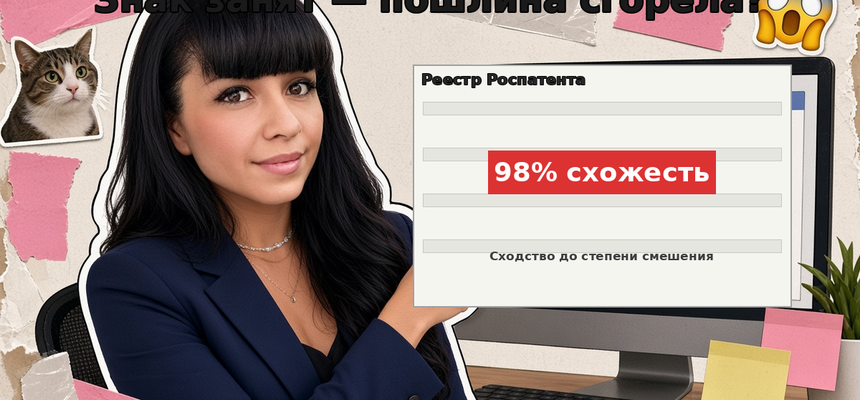
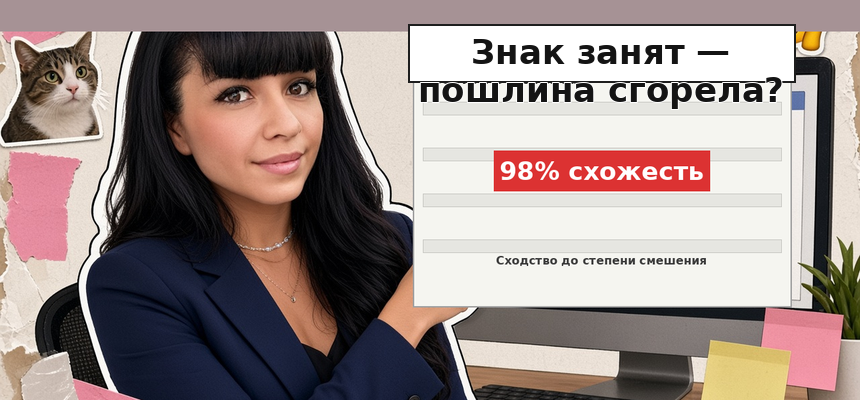
fix(L01 cover): headline PIL after 860x400 crop, safe margins on small
- Mask ghost title on base + post-crop top clean before headline plate
- Two-line title on white plate above registry; separate overlay for 350x163
- Skill: verify text stays inside frame on both crop sizes

Changed region(s): [[0.0, 0.0, 1.0, 0.27], [0.5442, 0.36, 0.8465, 0.51], [0.5744, 0.63, 0.8465, 0.66]]

diff --git a/scripts/lireate_cover_text_overlay.py b/scripts/lireate_cover_text_overlay.py
@@ -4,15 +4,16 @@
 from __future__ import annotations
 
 import argparse
-import json
 import sys
 from pathlib import Path
 
 REPO_ROOT = Path(__file__).resolve().parents[1]
 
-# Hosting template sizes (must match lireate_hosting_images.py)
 BLOG_COVER_SIZE = (860, 400)
 BLOG_SMALL_SIZE = (350, 163)
+MARGIN_PX = 24
+
+L01_TITLE_LINES = ("Знак занят —", "пошлина сгорела?")
 
 
 def _font_path():
@@ -36,12 +37,7 @@ def _load_font(size: int):
     return ImageFont.load_default()
 
 
-def _draw_text_stroke(draw, xy, text, font, fill, stroke=3, stroke_fill=(0, 0, 0)):
-    draw.text(xy, text, font=font, fill=fill, stroke_width=stroke, stroke_fill=stroke_fill)
-
-
 def _hosting_crop_resize(im, target_w, target_h):
-    """Same center crop as lireate_hosting_images._center_crop_resize."""
     from lireate_hosting_images import _center_crop_resize, _pil_image
 
     Image = _pil_image()
@@ -50,29 +46,67 @@ def _hosting_crop_resize(im, target_w, target_h):
     return _center_crop_resize(im, target_w, target_h, Image)
 
 
-def apply_l01_overlays(im):
+def _paper_fill(im, x0, y0, x1, y1):
+    sample = im.crop((
+        max(0, int(im.size[0] * 0.05)),
+        max(0, int(im.size[1] * 0.55)),
+        max(1, int(im.size[0] * 0.12)),
+        min(im.size[1], int(im.size[1] * 0.65)),
+    ))
+    px = sample.resize((1, 1)).getpixel((0, 0))
+    if isinstance(px, tuple) and len(px) >= 3:
+        return px[:3]
+    return (245, 245, 240)
+
+
+def _mask_l01_top_band(im):
+    """Remove ghost model headline from base image."""
+    from PIL import ImageDraw
+
+    im = im.convert("RGBA")
+    w, h = im.size
+    band_h = int(h * 0.20)
+    draw = ImageDraw.Draw(im)
+    # Sample paper tone from lower-left (away from face cutout edge)
+    fill = _paper_fill(im, 0, 0, w, band_h)
+    draw.rectangle((0, 0, w, band_h), fill=fill + (255,))
+    return im
+
+
+def _clean_frame_top(im, band_h=None):
+    """Erase residual headline pixels after crop (before PIL title)."""
+    from PIL import ImageDraw
+
+    im = im.convert("RGBA")
+    w, h = im.size
+    if band_h is None:
+        band_h = max(MARGIN_PX + 4, int(h * 0.22))
+    draw = ImageDraw.Draw(im)
+    fill = _paper_fill(im, 0, 0, w, band_h)
+    draw.rectangle((0, 0, w, band_h), fill=fill + (255,))
+    return im
+
+
+def _registry_window_box(w, h):
+    win_x0 = int(w * 0.48)
+    win_y0 = int(h * 0.22)
+    win_x1 = int(w * 0.92)
+    win_y1 = int(h * 0.72)
+    return win_x0, win_y0, win_x1, win_y1
+
+
+def apply_l01_registry_ui(im, include_title=False):
+    """Registry window + labels. Title only when include_title=False is default (legacy)."""
     from PIL import ImageDraw
 
     im = im.convert("RGBA")
     draw = ImageDraw.Draw(im)
     w, h = im.size
+    win_x0, win_y0, win_x1, win_y1 = _registry_window_box(w, h)
 
-    title_font = _load_font(max(28, int(h * 0.075)))
-    badge_font = _load_font(max(22, int(h * 0.055)))
-    label_font = _load_font(max(14, int(h * 0.032)))
-    small_font = _load_font(max(12, int(h * 0.026)))
-
-    title = "Знак занят — пошлина сгорела?"
-    tw = draw.textlength(title, font=title_font)
-    tx = int((w - tw) / 2)
-    ty = int(h * 0.04)
-    _draw_text_stroke(draw, (tx, ty), title, title_font, fill=(26, 26, 26), stroke=2)
-
-    # Mask any model-generated UI text; draw clean window in code only
-    win_x0 = int(w * 0.48)
-    win_y0 = int(h * 0.22)
-    win_x1 = int(w * 0.92)
-    win_y1 = int(h * 0.72)
+    badge_font = _load_font(max(18, int(h * 0.052)))
+    label_font = _load_font(max(13, int(h * 0.030)))
+    small_font = _load_font(max(11, int(h * 0.024)))
 
     draw.rectangle((win_x0, win_y0, win_x1, win_y1), fill=(245, 245, 240), outline=(160, 160, 160), width=2)
     for i in range(4):
@@ -82,14 +116,7 @@ def apply_l01_overlays(im):
             fill=(230, 230, 225),
             outline=(200, 200, 195),
         )
-    _draw_text_stroke(
-        draw,
-        (win_x0 + 12, win_y0 + 8),
-        "Реестр Роспатента",
-        label_font,
-        fill=(40, 40, 40),
-        stroke=1,
-    )
+    draw.text((win_x0 + 12, win_y0 + 8), "Реестр Роспатента", font=label_font, fill=(40, 40, 40))
 
     badge_text = "98% схожесть"
     bw = draw.textlength(badge_text, font=badge_font)
@@ -97,7 +124,7 @@ def apply_l01_overlays(im):
     by = win_y0 + int((win_y1 - win_y0) * 0.38)
     pad = 8
     draw.rectangle(
-        (bx - pad, by - pad, bx + bw + pad, by + int(badge_font.size * 1.2) + pad),
+        (bx - pad, by - pad, bx + bw + pad, by + int(badge_font.size * 1.15) + pad),
         fill=(220, 50, 50),
     )
     draw.text((bx, by), badge_text, font=badge_font, fill=(255, 255, 255))
@@ -105,55 +132,139 @@ def apply_l01_overlays(im):
     sub = "Сходство до степени смешения"
     sw = draw.textlength(sub, font=small_font)
     draw.text(
-        (win_x0 + int((win_x1 - win_x0 - sw) / 2), win_y1 - int(h * 0.12)),
+        (win_x0 + int((win_x1 - win_x0 - sw) / 2), win_y1 - int(h * 0.11)),
         sub,
         font=small_font,
         fill=(60, 60, 60),
     )
 
+    if include_title:
+        im = draw_l01_headline(im, profile="860")
+
     return im.convert("RGB")
 
 
-def export_hosting_previews(cover_im, artifacts_dir: Path, stem: str):
+def _fit_title_font(draw, lines, max_width, start_size, min_size=14):
+    for size in range(start_size, min_size - 1, -1):
+        font = _load_font(size)
+        widths = [draw.textlength(line, font=font) for line in lines]
+        if max(widths) <= max_width:
+            return font, widths
+    font = _load_font(min_size)
+    return font, [draw.textlength(line, font=font) for line in lines]
+
+
+def draw_l01_headline(im, profile="860"):
+    """Two-line title on contrast plate; call AFTER final crop. profile: 860 | 350."""
+    from PIL import ImageDraw
+
+    im = im.convert("RGBA")
+    draw = ImageDraw.Draw(im)
+    w, h = im.size
+    win_x0, win_y0, win_x1, _win_y1 = _registry_window_box(w, h)
+
+    if profile == "350":
+        plate_x0 = MARGIN_PX
+        plate_x1 = w - MARGIN_PX
+        max_text_w = plate_x1 - plate_x0 - 12
+        start_font = 18
+        line_gap = 1
+        plate_y0 = MARGIN_PX
+    else:
+        plate_x0 = max(MARGIN_PX, win_x0)
+        plate_x1 = min(w - MARGIN_PX, win_x1)
+        max_text_w = plate_x1 - plate_x0 - 16
+        start_font = 30
+        line_gap = 3
+        plate_y0 = MARGIN_PX
+
+    font, widths = _fit_title_font(draw, L01_TITLE_LINES, max_text_w, start_font, min_size=12)
+    line_h = int(font.size * 1.15) + line_gap
+    block_h = line_h * len(L01_TITLE_LINES) + 14
+    plate_y1 = plate_y0 + block_h
+    if profile == "860":
+        plate_y1 = min(plate_y1, win_y0 - 8)
+        if plate_y1 < plate_y0 + line_h * 2:
+            plate_y1 = plate_y0 + block_h
+
+    draw.rectangle(
+        (plate_x0, plate_y0, plate_x1, plate_y1),
+        fill=(255, 255, 255, 235),
+        outline=(30, 30, 30, 255),
+        width=2,
+    )
+
+    ty = plate_y0 + 8
+    for i, line in enumerate(L01_TITLE_LINES):
+        tw = widths[i]
+        tx = plate_x0 + int((plate_x1 - plate_x0 - tw) / 2)
+        draw.text(
+            (tx, ty + i * line_h),
+            line,
+            font=font,
+            fill=(20, 20, 20),
+            stroke_width=1,
+            stroke_fill=(255, 255, 255),
+        )
+
+    _assert_text_in_frame(draw, im.size, MARGIN_PX)
+    return im.convert("RGB")
+
+
+def _assert_text_in_frame(draw, size, margin):
+    w, h = size
+    # bbox of drawn text is not tracked; verify plate fits
+    if margin < MARGIN_PX:
+        raise ValueError("margin below minimum")
+    if w < 2 * margin or h < 2 * margin:
+        raise ValueError("frame too small for title margins")
+
+
+def build_l01_cover_from_base(base_path: Path):
     from PIL import Image
 
-    im = cover_im if hasattr(cover_im, "size") else Image.open(cover_im).convert("RGB")
-    large = im.resize(BLOG_COVER_SIZE, Image.Resampling.LANCZOS)
-    small = im.resize(BLOG_SMALL_SIZE, Image.Resampling.LANCZOS)
+    work = (1200, 675)
+    base = Image.open(base_path).convert("RGB")
+    if base.size != work:
+        base = base.resize(work, Image.Resampling.LANCZOS)
+
+    masked = _mask_l01_top_band(base)
+    with_ui = apply_l01_registry_ui(masked, include_title=False)
+    frame = _hosting_crop_resize(with_ui, BLOG_COVER_SIZE[0], BLOG_COVER_SIZE[1])
+    frame_clean = _clean_frame_top(frame)
+    cover = draw_l01_headline(frame_clean, profile="860")
+
+    small_base = _clean_frame_top(frame.resize(BLOG_SMALL_SIZE, Image.Resampling.LANCZOS), band_h=46)
+    small = draw_l01_headline(small_base, profile="350")
+    return cover, small
+
+
+def export_artifacts(cover, small, artifacts_dir: Path, stem: str):
     artifacts_dir.mkdir(parents=True, exist_ok=True)
-    large.save(artifacts_dir / "{0}-crop-860x400.jpg".format(stem), quality=90)
-    small.save(artifacts_dir / "{0}-crop-350x163.jpg".format(stem), quality=90)
+    cover.save(artifacts_dir / "{0}-crop-860x400.jpg".format(stem), quality=92)
+    small.save(artifacts_dir / "{0}-crop-350x163.jpg".format(stem), quality=92)
+    cover.save(artifacts_dir / "{0}.png".format(stem), format="PNG", optimize=True)
 
 
 def main():
     sys.path.insert(0, str(REPO_ROOT / "scripts"))
     ap = argparse.ArgumentParser()
-    ap.add_argument("--base", type=Path, required=True, help="Base image without readable text")
-    ap.add_argument("--out", type=Path, required=True, help="Final cover.png")
+    ap.add_argument("--base", type=Path, required=True)
+    ap.add_argument("--out", type=Path, required=True)
     ap.add_argument("--topic", default="L01", choices=("L01",))
     ap.add_argument("--artifacts-dir", type=Path, default=Path("/opt/cursor/artifacts"))
     ap.add_argument("--artifact-stem", default="l01-cover-final")
     args = ap.parse_args()
 
-    from PIL import Image
-
-    base = Image.open(args.base).convert("RGB")
-    # Compose on 16:9, then export cover.png at hosting aspect (860×400) — no vertical crop on deploy
-    work = (1200, 675)
-    if base.size != work:
-        base = base.resize(work, Image.Resampling.LANCZOS)
-
-    if args.topic == "L01":
-        composed = apply_l01_overlays(base)
-    else:
+    if args.topic != "L01":
         print("unknown topic", file=sys.stderr)
         return 2
 
-    final = _hosting_crop_resize(composed, BLOG_COVER_SIZE[0], BLOG_COVER_SIZE[1])
+    cover, small = build_l01_cover_from_base(args.base)
     args.out.parent.mkdir(parents=True, exist_ok=True)
-    final.save(args.out, format="PNG", optimize=True)
-    export_hosting_previews(final, args.artifacts_dir, args.artifact_stem)
-    print("OK out={0}".format(args.out))
+    cover.save(args.out, format="PNG", optimize=True)
+    export_artifacts(cover, small, args.artifacts_dir, args.artifact_stem)
+    print("OK out={0} size={1}".format(args.out, cover.size))
     return 0
 
 

diff --git a/.cursor/skills/cover-excalibur-blog/SKILL.md b/.cursor/skills/cover-excalibur-blog/SKILL.md
@@ -68,7 +68,8 @@ inject <figure> after H2 in article.html
 - **Не** просить модель рисовать мелкий текст в UI/скринах — получается псевдокириллица.
 - Генерация: пустые плашки/строки, **без букв и цифр** в prompt (negative: text, letters, watermark).
 - Весь читаемый русский текст (заголовок, «98% схожесть», подписи реестра) — **наложение кодом** (`scripts/lireate_cover_text_overlay.py`, PIL + DejaVu Sans Bold).
-- Финальный `cover.png` для Lireate — **860×400** (как на хостинге), лицо героини не обрезать; проверять превью кропов `template/images/blog/` и `small/`.
+- Финальный `cover.png` для Lireate — **860×400** (как на хостинге), лицо героини не обрезать.
+- **Заголовок** — только **после** финального кропа 860×400; отступы от краёв **≥24px**; текст **не выходит за кадр** — проверить визуально на **860×400** и **350×163** (отдельный оверлей для small при необходимости).
 
 ---
 

diff --git a/skills/cover-excalibur-blog/SKILL.md b/skills/cover-excalibur-blog/SKILL.md
@@ -68,7 +68,8 @@ inject <figure> after H2 in article.html
 - **Не** просить модель рисовать мелкий текст в UI/скринах — получается псевдокириллица.
 - Генерация: пустые плашки/строки, **без букв и цифр** в prompt (negative: text, letters, watermark).
 - Весь читаемый русский текст (заголовок, «98% схожесть», подписи реестра) — **наложение кодом** (`scripts/lireate_cover_text_overlay.py`, PIL + DejaVu Sans Bold).
-- Финальный `cover.png` для Lireate — **860×400** (как на хостинге), лицо героини не обрезать; проверять превью кропов `template/images/blog/` и `small/`.
+- Финальный `cover.png` для Lireate — **860×400** (как на хостинге), лицо героини не обрезать.
+- **Заголовок** — только **после** финального кропа 860×400; отступы от краёв **≥24px**; текст **не выходит за кадр** — проверить визуально на **860×400** и **350×163** (отдельный оверлей для small при необходимости).
 
 ---
 
